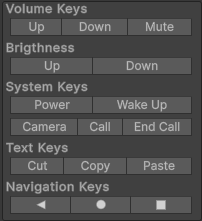
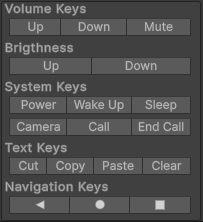
Add TV keys

diff --git a/com.unity.mobile.android-logcat/Editor/AndroidLogcatInputs.cs b/com.unity.mobile.android-logcat/Editor/AndroidLogcatInputs.cs
@@ -1,5 +1,6 @@
 using System;
 using UnityEditor;
+using UnityEditor.PackageManager.UI;
 using UnityEngine;
 
 namespace Unity.Android.Logcat
@@ -379,21 +380,29 @@ namespace Unity.Android.Logcat
 
             GUILayout.Label("System Keys", EditorStyles.boldLabel);
             GUILayout.BeginHorizontal();
+
             Margin();
+            GUILayout.BeginVertical();
             if (Key("Power"))
                 result = new KeyResult(AndroidKeyCode.POWER);
-            if (Key("Wake Up"))
-                result = new KeyResult(AndroidKeyCode.WAKEUP);
-            Margin();
-            GUILayout.EndHorizontal();
-            GUILayout.BeginHorizontal();
-            Margin();
             if (Key("Camera"))
                 result = new KeyResult(AndroidKeyCode.CAMERA);
+            GUILayout.EndVertical();
+
+            GUILayout.BeginVertical();
+            if (Key("Wake Up"))
+                result = new KeyResult(AndroidKeyCode.WAKEUP);
+
             if (Key("Call"))
                 result = new KeyResult(AndroidKeyCode.CALL);
+            GUILayout.EndVertical();
+
+            GUILayout.BeginVertical();
+            if (Key("Sleep"))
+                result = new KeyResult(AndroidKeyCode.SLEEP);
             if (Key("End Call"))
                 result = new KeyResult(AndroidKeyCode.ENDCALL);
+            GUILayout.EndVertical();
             Margin();
             GUILayout.EndHorizontal();
 
@@ -406,6 +415,8 @@ namespace Unity.Android.Logcat
                 result = new KeyResult(AndroidKeyCode.COPY);
             if (Key("Paste"))
                 result = new KeyResult(AndroidKeyCode.PASTE);
+            if (Key("Clear"))
+                result = new KeyResult(AndroidKeyCode.CLEAR);
             Margin();
             GUILayout.EndHorizontal();
 
@@ -417,10 +428,78 @@ namespace Unity.Android.Logcat
             if (Key(new GUIContent("●", "Send Home key event")))
                 result = new KeyResult(AndroidKeyCode.HOME);
             if (Key(new GUIContent("■", "Send Overview key event")))
-                result = new KeyResult(AndroidKeyCode.MENU);
+                result = new KeyResult(AndroidKeyCode.APP_SWITCH);
             Margin();
             GUILayout.EndHorizontal();
 
+            return result;
+        }
+
+        private KeyResult DoTVKeys(AndroidLogcatUserSettings.InputSettings settings)
+        {
+            var result = KeyResult.Empty;
+            GUILayout.Label("TV Keys", EditorStyles.boldLabel);
+
+            GUILayout.BeginHorizontal();
+            Margin();
+
+            GUILayout.BeginVertical();
+            if (Key(new GUIContent("Channel Up")))
+                result = new KeyResult(AndroidKeyCode.CHANNEL_UP);
+            if (Key(new GUIContent("Channel Down")))
+                result = new KeyResult(AndroidKeyCode.CHANNEL_DOWN);
+
+            GUILayout.EndVertical();
+
+            GUILayout.BeginVertical();
+            if (Key(new GUIContent("Zoom In")))
+                result = new KeyResult(AndroidKeyCode.ZOOM_IN);
+            if (Key(new GUIContent("Zoom Out")))
+                result = new KeyResult(AndroidKeyCode.ZOOM_OUT);
+            GUILayout.EndVertical();
+
+            Margin();
+            GUILayout.EndHorizontal();
+
+
+            GUILayout.BeginHorizontal();
+            Margin();
+            GUILayout.BeginVertical();
+            if (Key(new GUIContent("Live TV")))
+                result = new KeyResult(AndroidKeyCode.TV);
+            if (Key(new GUIContent("PnP", "Picture In Picture")))
+                result = new KeyResult(AndroidKeyCode.WINDOW);
+            if (Key(new GUIContent("Captions")))
+                result = new KeyResult(AndroidKeyCode.CAPTIONS);
+            if (Key(new GUIContent("TV Power")))
+                result = new KeyResult(AndroidKeyCode.TV_POWER);
+            GUILayout.EndVertical();
+            GUILayout.BeginVertical();
+            if (Key(new GUIContent("Guide")))
+                result = new KeyResult(AndroidKeyCode.GUIDE);
+            if (Key(new GUIContent("Bookmark")))
+                result = new KeyResult(AndroidKeyCode.BOOKMARK);
+            if (Key(new GUIContent("Settings")))
+                result = new KeyResult(AndroidKeyCode.SETTINGS);
+            if (Key(new GUIContent("TV Input")))
+                result = new KeyResult(AndroidKeyCode.TV_INPUT);
+            GUILayout.EndVertical();
+            Margin();
+            GUILayout.EndHorizontal();
+
+            GUILayout.Label("Program Keys", EditorStyles.boldLabel);
+            GUILayout.BeginHorizontal();
+            Margin();
+            if (Key(new GUIContent("Red", "Program Red Key")))
+                result = new KeyResult(AndroidKeyCode.PROG_RED);
+            if (Key(new GUIContent("Green", "Program Green Key")))
+                result = new KeyResult(AndroidKeyCode.PROG_GREEN);
+            if (Key(new GUIContent("Yellow", "Program Yellow Key")))
+                result = new KeyResult(AndroidKeyCode.PROG_YELLOW);
+            if (Key(new GUIContent("Blue", "Program Blue Key")))
+                result = new KeyResult(AndroidKeyCode.PROG_BLUE);
+            Margin();
+            GUILayout.EndHorizontal();
             return result;
         }
 
@@ -549,9 +628,12 @@ namespace Unity.Android.Logcat
             GUILayout.Space(4);
             DoSection(runtime, device, DoSystemKeys, GetOptions(200, extraWindowState.Height));
             GUILayout.Space(4);
+            DoSection(runtime, device, DoTVKeys, GetOptions(200, extraWindowState.Height));
+            GUILayout.Space(4);
             DoSendText(runtime, device, GetOptions(extraWindowState.Height));
             GUILayout.Space(4);
-            
+
+
 
             // Something for the future
             var refreshPackages = false;

diff --git a/com.unity.mobile.android-logcat/Documentation~/inputs-window.md b/com.unity.mobile.android-logcat/Documentation~/inputs-window.md
@@ -13,6 +13,7 @@ The inputs window is divided into five sections:
 * Cursor keys
 * Numpad keys
 * Miscellaneous keys
+* TV keys
 * Send text window
 
 **Note:** The key events which are affected by shift modifier are sent using - adb shell input keyevent <key_code> command.
@@ -57,7 +58,13 @@ Includes various helper keys for Android:
    * Cut/Copy/Paste
    * Back/Home/Menu
 
- ## Send text
+## TV keys
+![](images/InputsWindow_TV.png)
+
+Incluse basic TV keys.
+
+
+## Send text
 
  ![](images/InputsWindow_SendText.png)
 
